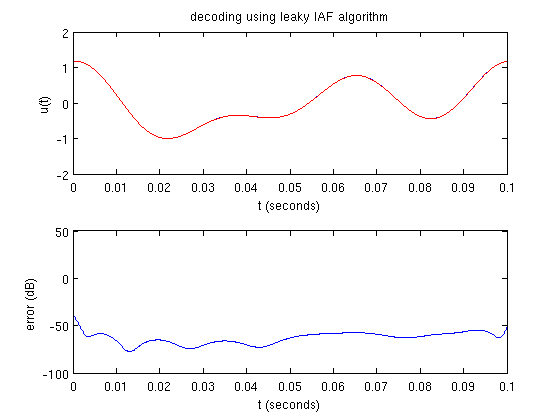
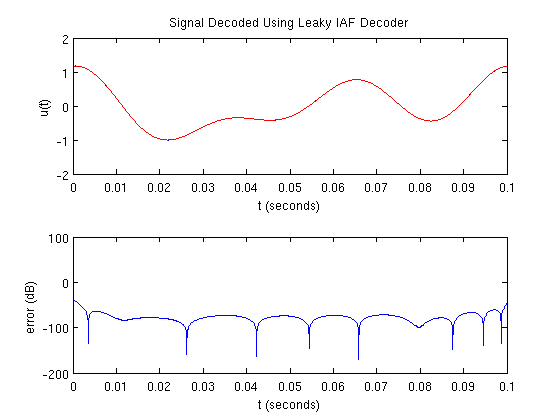
Improve precision of IAF TEM by subtracting threshold from integrator rather than resetting the integrator to 0 when a spike is emitted.

diff --git a/teddemos/html/iaf_demo.html b/teddemos/html/iaf_demo.html
@@ -4,9 +4,9 @@
 <html><head>
       <meta http-equiv="Content-Type" content="text/html; charset=utf-8">
    <!--
-This HTML is auto-generated from an M-file.
-To make changes, update the M-file and republish this document.
-      --><title>Time Encoding and Decoding with an Integrate-and-Fire Neuron</title><meta name="generator" content="MATLAB 7.9"><meta name="date" content="2010-03-03"><meta name="m-file" content="iaf_demo"><style type="text/css">
+This HTML was auto-generated from MATLAB code.
+To make changes, update the MATLAB code and republish this document.
+      --><title>Time Encoding and Decoding with an Integrate-and-Fire Neuron</title><meta name="generator" content="MATLAB 7.11"><link rel="schema.DC" href="http://purl.org/dc/elements/1.1/"><meta name="DC.date" content="2010-12-24"><meta name="DC.source" content="iaf_demo.m"><style type="text/css">
 
 body {
   background-color: white;
@@ -71,68 +71,68 @@ t = [0:dt:dur]; <span class="comment">% time support</span>
 np = -inf;      <span class="comment">% noise level</span>
 
 <span class="keyword">if</span> np == -inf,
-  fig_title = <span class="string">'IAF input signal with no noise'</span>;
+  fig_title = <span class="string">'IAF Input Signal with No Noise'</span>;
 <span class="keyword">else</span>
-  fig_title = sprintf(<span class="string">'IAF input signal with %d dB of noise'</span>,np);
+  fig_title = sprintf(<span class="string">'IAF Input Signal with %d dB of Noise'</span>,np);
 <span class="keyword">end</span>
 
 rand(<span class="string">'twister'</span>,0); randn(<span class="string">'state'</span>,0);
 fprintf(1,<span class="string">'%s\n'</span>,fig_title);
 u = func_timer(@gen_test_signal,dur,dt,f,np);
 plot_signal(t,u,fig_title);
-</pre><pre class="codeoutput">IAF input signal with no noise
-execution time = 0.029 s
-</pre><img vspace="5" hspace="5" src="iaf_demo_01.png" alt=""> <h2>Time Encoding<a name="2"></a></h2><p>The IAF time encoder can make use of a leaky or non-leaky neuron model (i.e., when the neuron's resistance is infinite). Both models are demonstrated below.</p><p>Set the encoding parameters:</p><pre class="codeinput">b = 3.5;  <span class="comment">% bias</span>
+</pre><pre class="codeoutput">IAF Input Signal with No Noise
+execution time = 0.281 s
+</pre><img vspace="5" hspace="5" src="iaf_demo_01.png" alt=""> <h2>Time Encoding<a name="2"></a></h2><p>The IAF time encoder can make use of a leaky or ideal neuron model (i.e., when the neuron's resistance is infinite). Both models are demonstrated below.</p><p>Set the encoding parameters:</p><pre class="codeinput">b = 3.5;  <span class="comment">% bias</span>
 d = 0.7;  <span class="comment">% threshold</span>
 R = 10;   <span class="comment">% resistance</span>
 C = 0.01; <span class="comment">% capacitance</span>
-</pre><p>Verify that recovery can take place with the leaky and non-leaky parameters:</p><pre class="codeinput"><span class="keyword">if</span> ~iaf_recoverable(u,bw,b,d,R,C),
+</pre><p>Verify that recovery can take place with the leaky and ideal parameters:</p><pre class="codeinput"><span class="keyword">if</span> ~iaf_recoverable(u,bw,b,d,R,C),
   <span class="keyword">return</span>
 <span class="keyword">end</span>
 
 <span class="keyword">if</span> ~iaf_recoverable(u,bw,b,d,inf,C),
   <span class="keyword">return</span>
 <span class="keyword">end</span>
-</pre><p>Encode the signal using the leaky model:</p><pre class="codeinput">fig_title = <span class="string">'encoding using leaky IAF algorithm'</span>;
+</pre><p>Encode the signal using the leaky model:</p><pre class="codeinput">fig_title = <span class="string">'Signal Encoded Using Leaky IAF Encoder'</span>;
 fprintf(1,<span class="string">'%s\n'</span>,fig_title);
 s_leaky = func_timer(@iaf_encode,u,dt,b,d,R,C);
 plot_encoded(t,u,s_leaky,fig_title);
-</pre><pre class="codeoutput">encoding using leaky IAF algorithm
-execution time = 0.271 s
-</pre><img vspace="5" hspace="5" src="iaf_demo_02.png" alt=""> <p>Encode the signal using the non-leaky model:</p><pre class="codeinput">fig_title = <span class="string">'encoding using nonleaky IAF algorithm'</span>;
+</pre><pre class="codeoutput">Signal Encoded Using Leaky IAF Encoder
+execution time = 0.328 s
+</pre><img vspace="5" hspace="5" src="iaf_demo_02.png" alt=""> <p>Encode the signal using the ideal model:</p><pre class="codeinput">fig_title = <span class="string">'Signal Encoded Using Ideal IAF Encoder'</span>;
 fprintf(1,<span class="string">'%s\n'</span>,fig_title);
-s_nonleaky = func_timer(@iaf_encode,u,dt,b,d,inf,C);
-plot_encoded(t,u,s_nonleaky,fig_title);
-</pre><pre class="codeoutput">encoding using nonleaky IAF algorithm
-execution time = 0.243 s
-</pre><img vspace="5" hspace="5" src="iaf_demo_03.png" alt=""> <h2>Time Decoding<a name="6"></a></h2><p>The signal can be recovered for both the leaky and non-leaky models:</p><pre class="codeinput">fig_title = <span class="string">'decoding using leaky IAF algorithm'</span>;
+s_ideal = func_timer(@iaf_encode,u,dt,b,d,inf,C);
+plot_encoded(t,u,s_ideal,fig_title);
+</pre><pre class="codeoutput">Signal Encoded Using Ideal IAF Encoder
+execution time = 0.289 s
+</pre><img vspace="5" hspace="5" src="iaf_demo_03.png" alt=""> <h2>Time Decoding<a name="6"></a></h2><p>The signal can be recovered for both the leaky and ideal models:</p><pre class="codeinput">fig_title = <span class="string">'Signal Decoded Using Leaky IAF Decoder'</span>;
 fprintf(1,<span class="string">'%s\n'</span>,fig_title);
 u_rec_leaky = func_timer(@iaf_decode,s_leaky,dur,dt,bw,b,d,R,C);
 plot_compare(t,u,u_rec_leaky,fig_title);
-</pre><pre class="codeoutput">decoding using leaky IAF algorithm
-execution time = 0.891 s
-</pre><img vspace="5" hspace="5" src="iaf_demo_04.png" alt=""> <pre class="codeinput">fig_title = <span class="string">'decoding using nonleaky IAF algorithm'</span>;
+</pre><pre class="codeoutput">Signal Decoded Using Leaky IAF Decoder
+execution time = 0.983 s
+</pre><img vspace="5" hspace="5" src="iaf_demo_04.png" alt=""> <pre class="codeinput">fig_title = <span class="string">'Signal Decoded Using Ideal IAF Decoder'</span>;
 fprintf(1,<span class="string">'%s\n'</span>,fig_title);
-u_rec_nonleaky = func_timer(@iaf_decode,s_nonleaky,dur,dt,bw,b,d,inf,C);
-plot_compare(t,u,u_rec_nonleaky,fig_title);
-</pre><pre class="codeoutput">decoding using nonleaky IAF algorithm
-execution time = 0.318 s
+u_rec_ideal = func_timer(@iaf_decode,s_ideal,dur,dt,bw,b,d,inf,C);
+plot_compare(t,u,u_rec_ideal,fig_title);
+</pre><pre class="codeoutput">Signal Decoded Using Ideal IAF Decoder
+execution time = 0.267 s
 </pre><img vspace="5" hspace="5" src="iaf_demo_05.png" alt=""> <p>Decoding can also be performed using a faster algorithm:</p><pre class="codeinput">M = 5; <span class="comment">% fast decoding parameter</span>
 
-fig_title = <span class="string">'decoding using leaky fast IAF algorithm'</span>;
+fig_title = <span class="string">'Signal Decoded Using Fast Leaky IAF Decoder'</span>;
 fprintf(1,<span class="string">'%s\n'</span>,fig_title);
-u_rec_leaky = func_timer(@iaf_decode_fast,s_leaky,dur,dt,bw,M,b,d,inf,C);
-plot_compare(t,u,u_rec_leaky,fig_title);
-</pre><pre class="codeoutput">decoding using leaky fast IAF algorithm
-execution time = 0.162 s
-</pre><img vspace="5" hspace="5" src="iaf_demo_06.png" alt=""> <pre class="codeinput">fig_title = <span class="string">'decoding using nonleaky fast IAF algorithm'</span>;
+u_rec_leaky_fast = func_timer(@iaf_decode_fast,s_leaky,dur,dt,bw,M,b,d,inf,C);
+plot_compare(t,u,u_rec_leaky_fast,fig_title);
+</pre><pre class="codeoutput">Signal Decoded Using Fast Leaky IAF Decoder
+execution time = 0.065 s
+</pre><img vspace="5" hspace="5" src="iaf_demo_06.png" alt=""> <pre class="codeinput">fig_title = <span class="string">'Signal Decoded Using Fast Ideal IAF Decoder'</span>;
 fprintf(1,<span class="string">'%s\n'</span>,fig_title);
-u_rec_nonleaky = func_timer(@iaf_decode_fast,s_nonleaky,dur,dt,bw,M,b,d,inf,C);
-plot_compare(t,u,u_rec_nonleaky,fig_title);
-</pre><pre class="codeoutput">decoding using nonleaky fast IAF algorithm
-execution time = 0.081 s
+u_rec_ideal_fast = func_timer(@iaf_decode_fast,s_ideal,dur,dt,bw,M,b,d,inf,C);
+plot_compare(t,u,u_rec_ideal_fast,fig_title);
+</pre><pre class="codeoutput">Signal Decoded Using Fast Ideal IAF Decoder
+execution time = 0.080 s
 </pre><img vspace="5" hspace="5" src="iaf_demo_07.png" alt=""> <p><i>Author: Lev Givon</i></p><p><i>Copyright 2009-2010 Trustees of Columbia University</i></p><p class="footer"><br>
-      Published with MATLAB&reg; 7.9<br></p></div><!--
+      Published with MATLAB&reg; 7.11<br></p></div><!--
 ##### SOURCE BEGIN #####
 %% Time Encoding and Decoding with an Integrate-and-Fire Neuron
 % This demo illustrates the time encoding and decoding of a
@@ -150,9 +150,9 @@ t = [0:dt:dur]; % time support
 np = -inf;      % noise level
 
 if np == -inf,
-  fig_title = 'IAF input signal with no noise';
+  fig_title = 'IAF Input Signal with No Noise';
 else
-  fig_title = sprintf('IAF input signal with %d dB of noise',np);
+  fig_title = sprintf('IAF Input Signal with %d dB of Noise',np);
 end
 
 rand('twister',0); randn('state',0);
@@ -161,7 +161,7 @@ u = func_timer(@gen_test_signal,dur,dt,f,np);
 plot_signal(t,u,fig_title);
 
 %% Time Encoding
-% The IAF time encoder can make use of a leaky or non-leaky neuron
+% The IAF time encoder can make use of a leaky or ideal neuron
 % model (i.e., when the neuron's resistance is infinite). Both models
 % are demonstrated below.
 %
@@ -172,7 +172,7 @@ R = 10;   % resistance
 C = 0.01; % capacitance
 
 %%
-% Verify that recovery can take place with the leaky and non-leaky
+% Verify that recovery can take place with the leaky and ideal
 % parameters:
 if ~iaf_recoverable(u,bw,b,d,R,C),
   return
@@ -184,43 +184,44 @@ end
 
 %%
 % Encode the signal using the leaky model: 
-fig_title = 'encoding using leaky IAF algorithm';
+fig_title = 'Signal Encoded Using Leaky IAF Encoder';
 fprintf(1,'%s\n',fig_title);
 s_leaky = func_timer(@iaf_encode,u,dt,b,d,R,C);
 plot_encoded(t,u,s_leaky,fig_title);
 
 %%
-% Encode the signal using the non-leaky model:
-fig_title = 'encoding using nonleaky IAF algorithm';
+% Encode the signal using the ideal model:
+fig_title = 'Signal Encoded Using Ideal IAF Encoder';
 fprintf(1,'%s\n',fig_title);
-s_nonleaky = func_timer(@iaf_encode,u,dt,b,d,inf,C);
-plot_encoded(t,u,s_nonleaky,fig_title);
+s_ideal = func_timer(@iaf_encode,u,dt,b,d,inf,C);
+plot_encoded(t,u,s_ideal,fig_title);
 
 %% Time Decoding
-% The signal can be recovered for both the leaky and non-leaky models:
-fig_title = 'decoding using leaky IAF algorithm';
+% The signal can be recovered for both the leaky and ideal models:
+fig_title = 'Signal Decoded Using Leaky IAF Decoder';
 fprintf(1,'%s\n',fig_title);
 u_rec_leaky = func_timer(@iaf_decode,s_leaky,dur,dt,bw,b,d,R,C);
 plot_compare(t,u,u_rec_leaky,fig_title);
 %%
-fig_title = 'decoding using nonleaky IAF algorithm';
+fig_title = 'Signal Decoded Using Ideal IAF Decoder';
 fprintf(1,'%s\n',fig_title);
-u_rec_nonleaky = func_timer(@iaf_decode,s_nonleaky,dur,dt,bw,b,d,inf,C);
-plot_compare(t,u,u_rec_nonleaky,fig_title);
+u_rec_ideal = func_timer(@iaf_decode,s_ideal,dur,dt,bw,b,d,inf,C);
+plot_compare(t,u,u_rec_ideal,fig_title);
 
 %%
 % Decoding can also be performed using a faster algorithm:
 M = 5; % fast decoding parameter
 
-fig_title = 'decoding using leaky fast IAF algorithm';
+fig_title = 'Signal Decoded Using Fast Leaky IAF Decoder';
 fprintf(1,'%s\n',fig_title);
-u_rec_leaky = func_timer(@iaf_decode_fast,s_leaky,dur,dt,bw,M,b,d,inf,C);
-plot_compare(t,u,u_rec_leaky,fig_title);
+u_rec_leaky_fast = func_timer(@iaf_decode_fast,s_leaky,dur,dt,bw,M,b,d,inf,C);
+plot_compare(t,u,u_rec_leaky_fast,fig_title);
+
 %%
-fig_title = 'decoding using nonleaky fast IAF algorithm';
+fig_title = 'Signal Decoded Using Fast Ideal IAF Decoder';
 fprintf(1,'%s\n',fig_title);
-u_rec_nonleaky = func_timer(@iaf_decode_fast,s_nonleaky,dur,dt,bw,M,b,d,inf,C);
-plot_compare(t,u,u_rec_nonleaky,fig_title);
+u_rec_ideal_fast = func_timer(@iaf_decode_fast,s_ideal,dur,dt,bw,M,b,d,inf,C);
+plot_compare(t,u,u_rec_ideal_fast,fig_title);
 
 %%
 % _Author: Lev Givon_

diff --git a/teddemos/iaf_demo.m b/teddemos/iaf_demo.m
@@ -78,14 +78,14 @@ M = 5; % fast decoding parameter
 
 fig_title = 'Signal Decoded Using Fast Leaky IAF Decoder';
 fprintf(1,'%s\n',fig_title);
-u_rec_leaky = func_timer(@iaf_decode_fast,s_leaky,dur,dt,bw,M,b,d,inf,C);
-plot_compare(t,u,u_rec_leaky,fig_title);
+u_rec_leaky_fast = func_timer(@iaf_decode_fast,s_leaky,dur,dt,bw,M,b,d,inf,C);
+plot_compare(t,u,u_rec_leaky_fast,fig_title);
 
 %%
 fig_title = 'Signal Decoded Using Fast Ideal IAF Decoder';
 fprintf(1,'%s\n',fig_title);
-u_rec_ideal = func_timer(@iaf_decode_fast,s_ideal,dur,dt,bw,M,b,d,inf,C);
-plot_compare(t,u,u_rec_ideal,fig_title);
+u_rec_ideal_fast = func_timer(@iaf_decode_fast,s_ideal,dur,dt,bw,M,b,d,inf,C);
+plot_compare(t,u,u_rec_ideal_fast,fig_title);
 
 %%
 % _Author: Lev Givon_

diff --git a/ted/iaf_encode.m b/ted/iaf_encode.m
@@ -115,7 +115,7 @@ for i=1:last,
     s(j) = interval;
     j = j + 1;
     interval = 0;
-    y = 0;
+    y = y - d;
   end
 end
 
